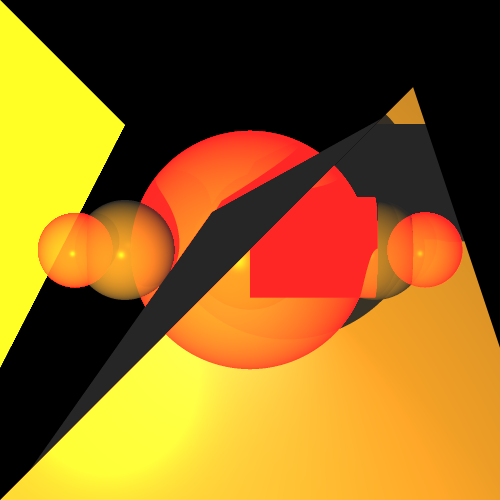
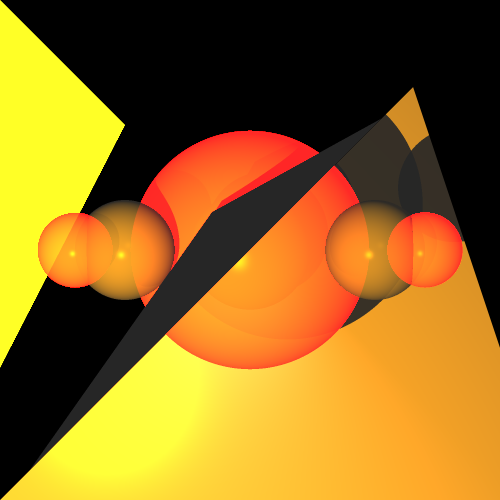
ping_pong

Changed region(s): [[0.48, 0.36, 0.78, 0.6], [0.78, 0.24, 0.87, 0.3]]

diff --git a/tests/MiniProject/PingPong.java b/tests/MiniProject/PingPong.java
@@ -1,27 +1,44 @@
 package MiniProject;
 
+import elements.AmbientLight;
 import elements.Camera;
+import elements.SpotLight;
+import geometries.Cylinder;
+import geometries.Sphere;
 import org.junit.jupiter.api.Test;
-import primitives.Color;
-import primitives.Point3D;
-import primitives.Vector;
+import primitives.*;
 import renderer.ImageWriter;
 import renderer.RayTracerBasic;
 import renderer.Render;
 import scene.Scene;
 
 public class PingPong {
-    Scene scene = new Scene("Ping Pong");
-    private Camera camera = new Camera(new Point3D(0, 0, 1000), new Vector(0, 0, -1), new Vector(0, 1, 0)) //
-            .setViewPlaneSize(150, 150) //
-            .setDistance(1000);
-    @Test
-    void pingPongPicture() {
-        scene.setBackground(new Color(java.awt.Color.white));
+    private Scene scene = new Scene("ping_pong");
+    private Camera camera = new Camera(new Point3D(25, 0, 1000), new Vector(0, 0, -1), new Vector(1, 0, 0)) //
+            .setViewPlaneSize(200, 200).setDistance(1000);
 
-        ImageWriter imageWriter = new ImageWriter("Ping_Pong", 500, 500);
-        Render render = new Render()//
-                .setImageWriter(imageWriter) //
+    /**
+     *
+     */
+    @Test
+    public void TestPingPong() {
+        scene.geometries.add( //
+               new Cylinder(new Ray(new Point3D(0,-14,0),new Vector(0,-23,0)),15,60)
+                       .setEmission(new Color(java.awt.Color.RED))
+                        .setMaterial(new Material().setDiffuse(0.5).setSpecular(0.5).setShininess(100)),
+                new Cylinder(new Ray(new Point3D(-4,-5,-1),new Vector(2,-1,1)),40,50)
+                .setEmission(new Color(java.awt.Color.BLUE))
+                .setMaterial(new Material().setShininess(100).setSpecular(0.5).setDiffuse(0.5))
+
+        );
+        scene.lights.add(
+                //new DirectionalLight(new Color())//
+                new SpotLight(new Color(300, 255, 255), new Point3D(400, 0, 600), new Vector(1, 1, -5))//
+                        .setKl(1E-5).setKq(1.5E-7));
+//                new PointLight(new Color(500, 250, 250), new Point3D(-80, -80, -130)).setKl(0.00005).setKq(0.00005));
+
+        Render render = new Render(). //
+                setImageWriter(new ImageWriter("ping_pong", 400, 400)) //
                 .setCamera(camera) //
                 .setRayTracer(new RayTracerBasic(scene));
         render.renderImage();
